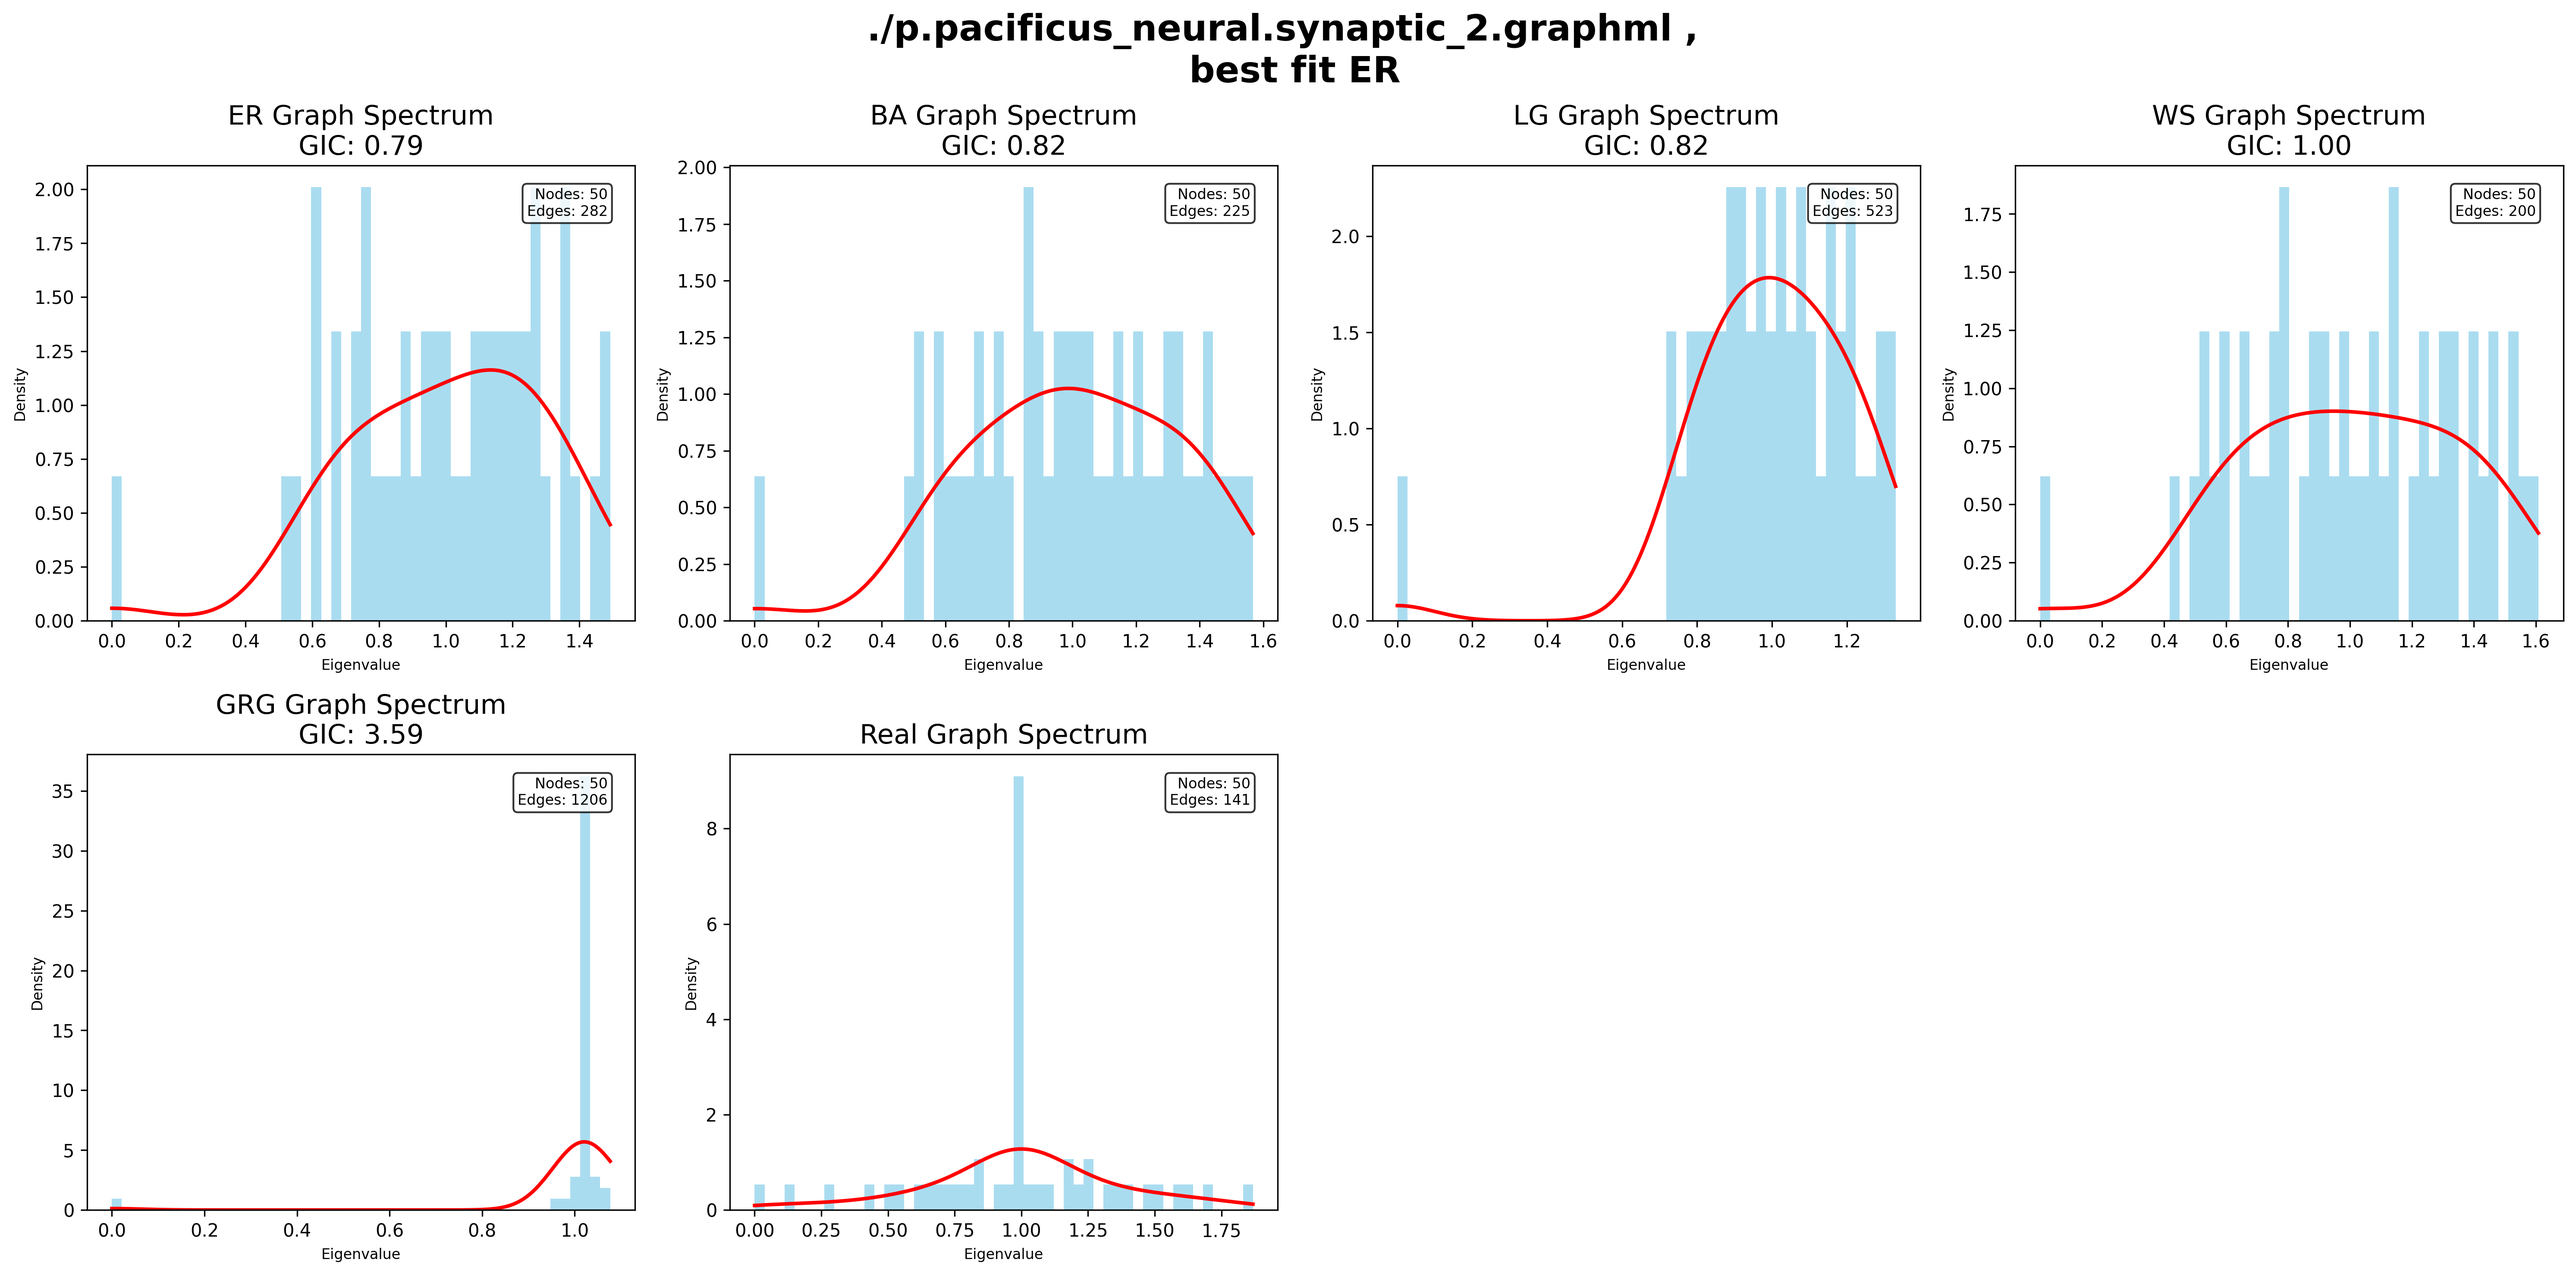
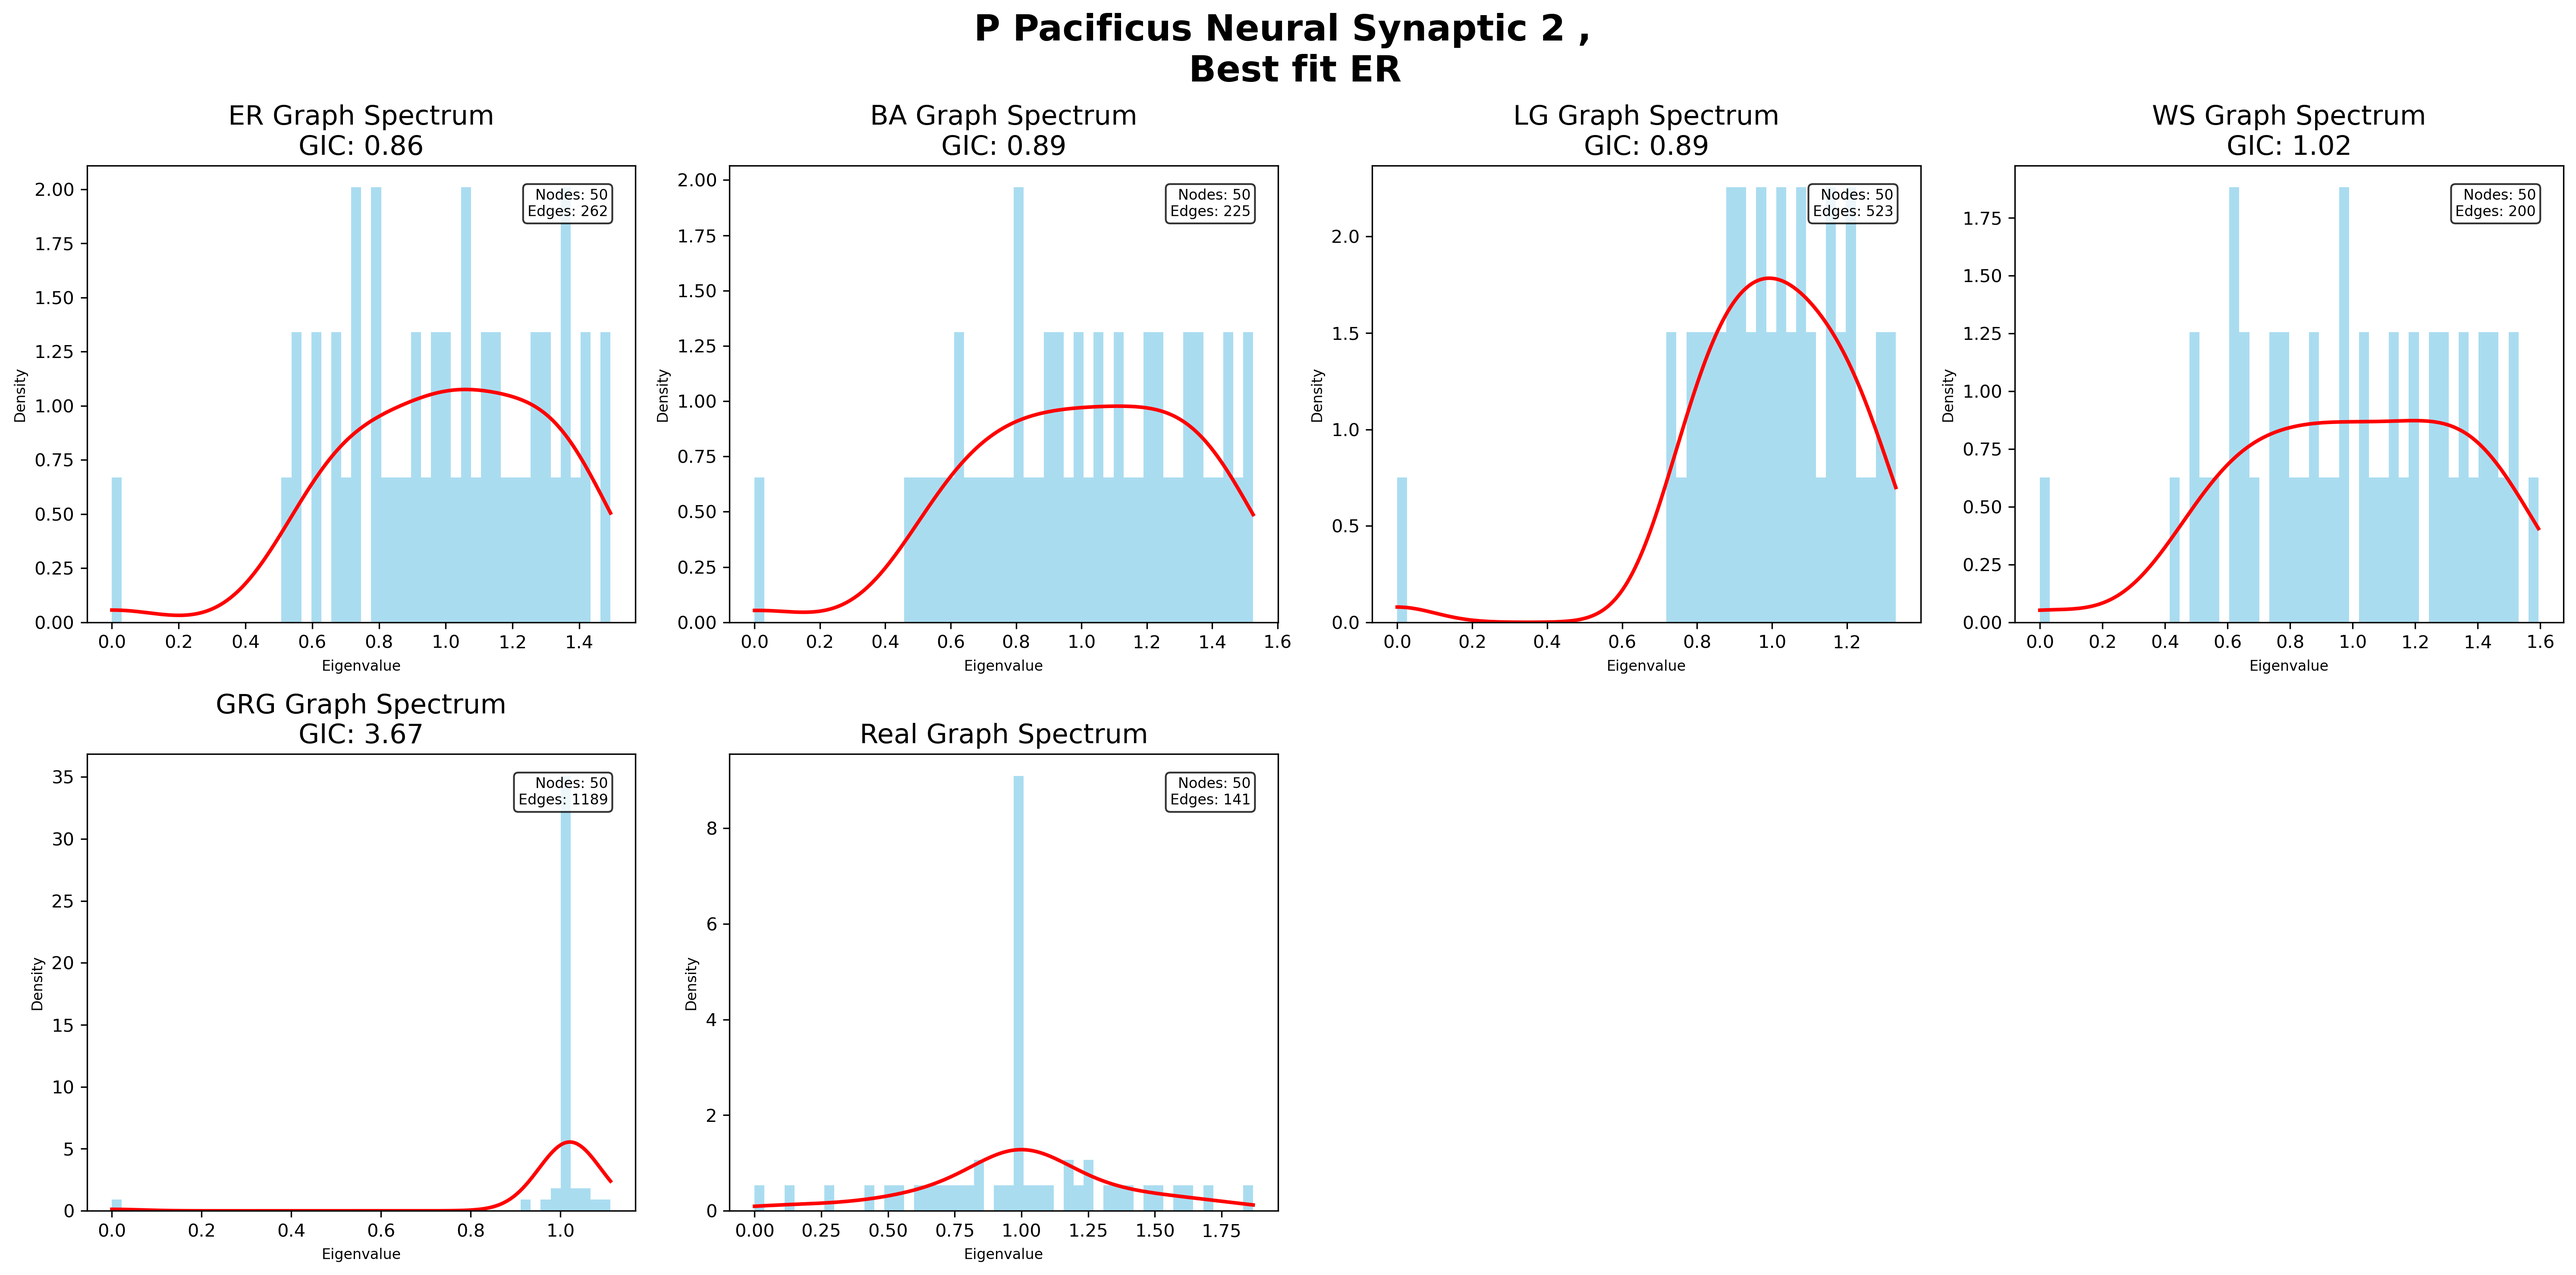
new exp

diff --git a/notebooks/tests_dataset.py b/notebooks/tests_dataset.py
@@ -224,15 +224,8 @@ def plot_spectra_in_matrix(sim_graphs_dict, result_dict, global_title, bins=120,
 
 
 if __name__ == "__main__":
-    sampled_indices = random.sample(range(len(connectomes)), len(connectomes))
-    print(sampled_indices)
-
-    #for i in sampled_indices:
-    for i in range(1):
+    for i in range(len(connectomes)):
         print(f"Processing connectome {i+1}/{len(connectomes)}: {connectomes[i]}")
-        # Not ok: 2
-        i=4
-
         try:
             real_graph = nx.read_graphml(datasets + connectomes[i])
             real_graph = nx.to_numpy_array(real_graph)
@@ -349,17 +342,19 @@ if __name__ == "__main__":
 
             sim_graphs_dict['Real'] = nx.from_numpy_array(real_graph)
 
-            # Plot and save graph visualizations
+            clean_title = os.path.splitext(connectomes[i])[0].replace('_', ' ')
+            clean_title = clean_title.replace('.', ' ')
+            clean_title = ' '.join(word.capitalize() for word in clean_title.split())
             fig = plot_graphs_in_matrix(sim_graphs_dict,
                                         result_dict,
-                                        global_title=f'./{connectomes[i]}, \n Best fit: {min_gic_key}',
+                                        global_title=f'{clean_title}, \n Best fit: {min_gic_key}',
                                         save_path=f'../images/imgs_connectomes/{connectomes[i]}.png')
             plt.close()
 
             # Plot and save spectrum visualizations
             fig = plot_spectra_in_matrix(sim_graphs_dict,
                                         result_dict,
-                                        global_title=f'./{connectomes[i]} , \n best fit {min_gic_key}',
+                                        global_title=f'{clean_title} , \n Best fit {min_gic_key}',
                                         bins=50,
                                         save_path=f'../images/imgs_spectra/spectra_{connectomes[i]}.png')
             plt.close()
